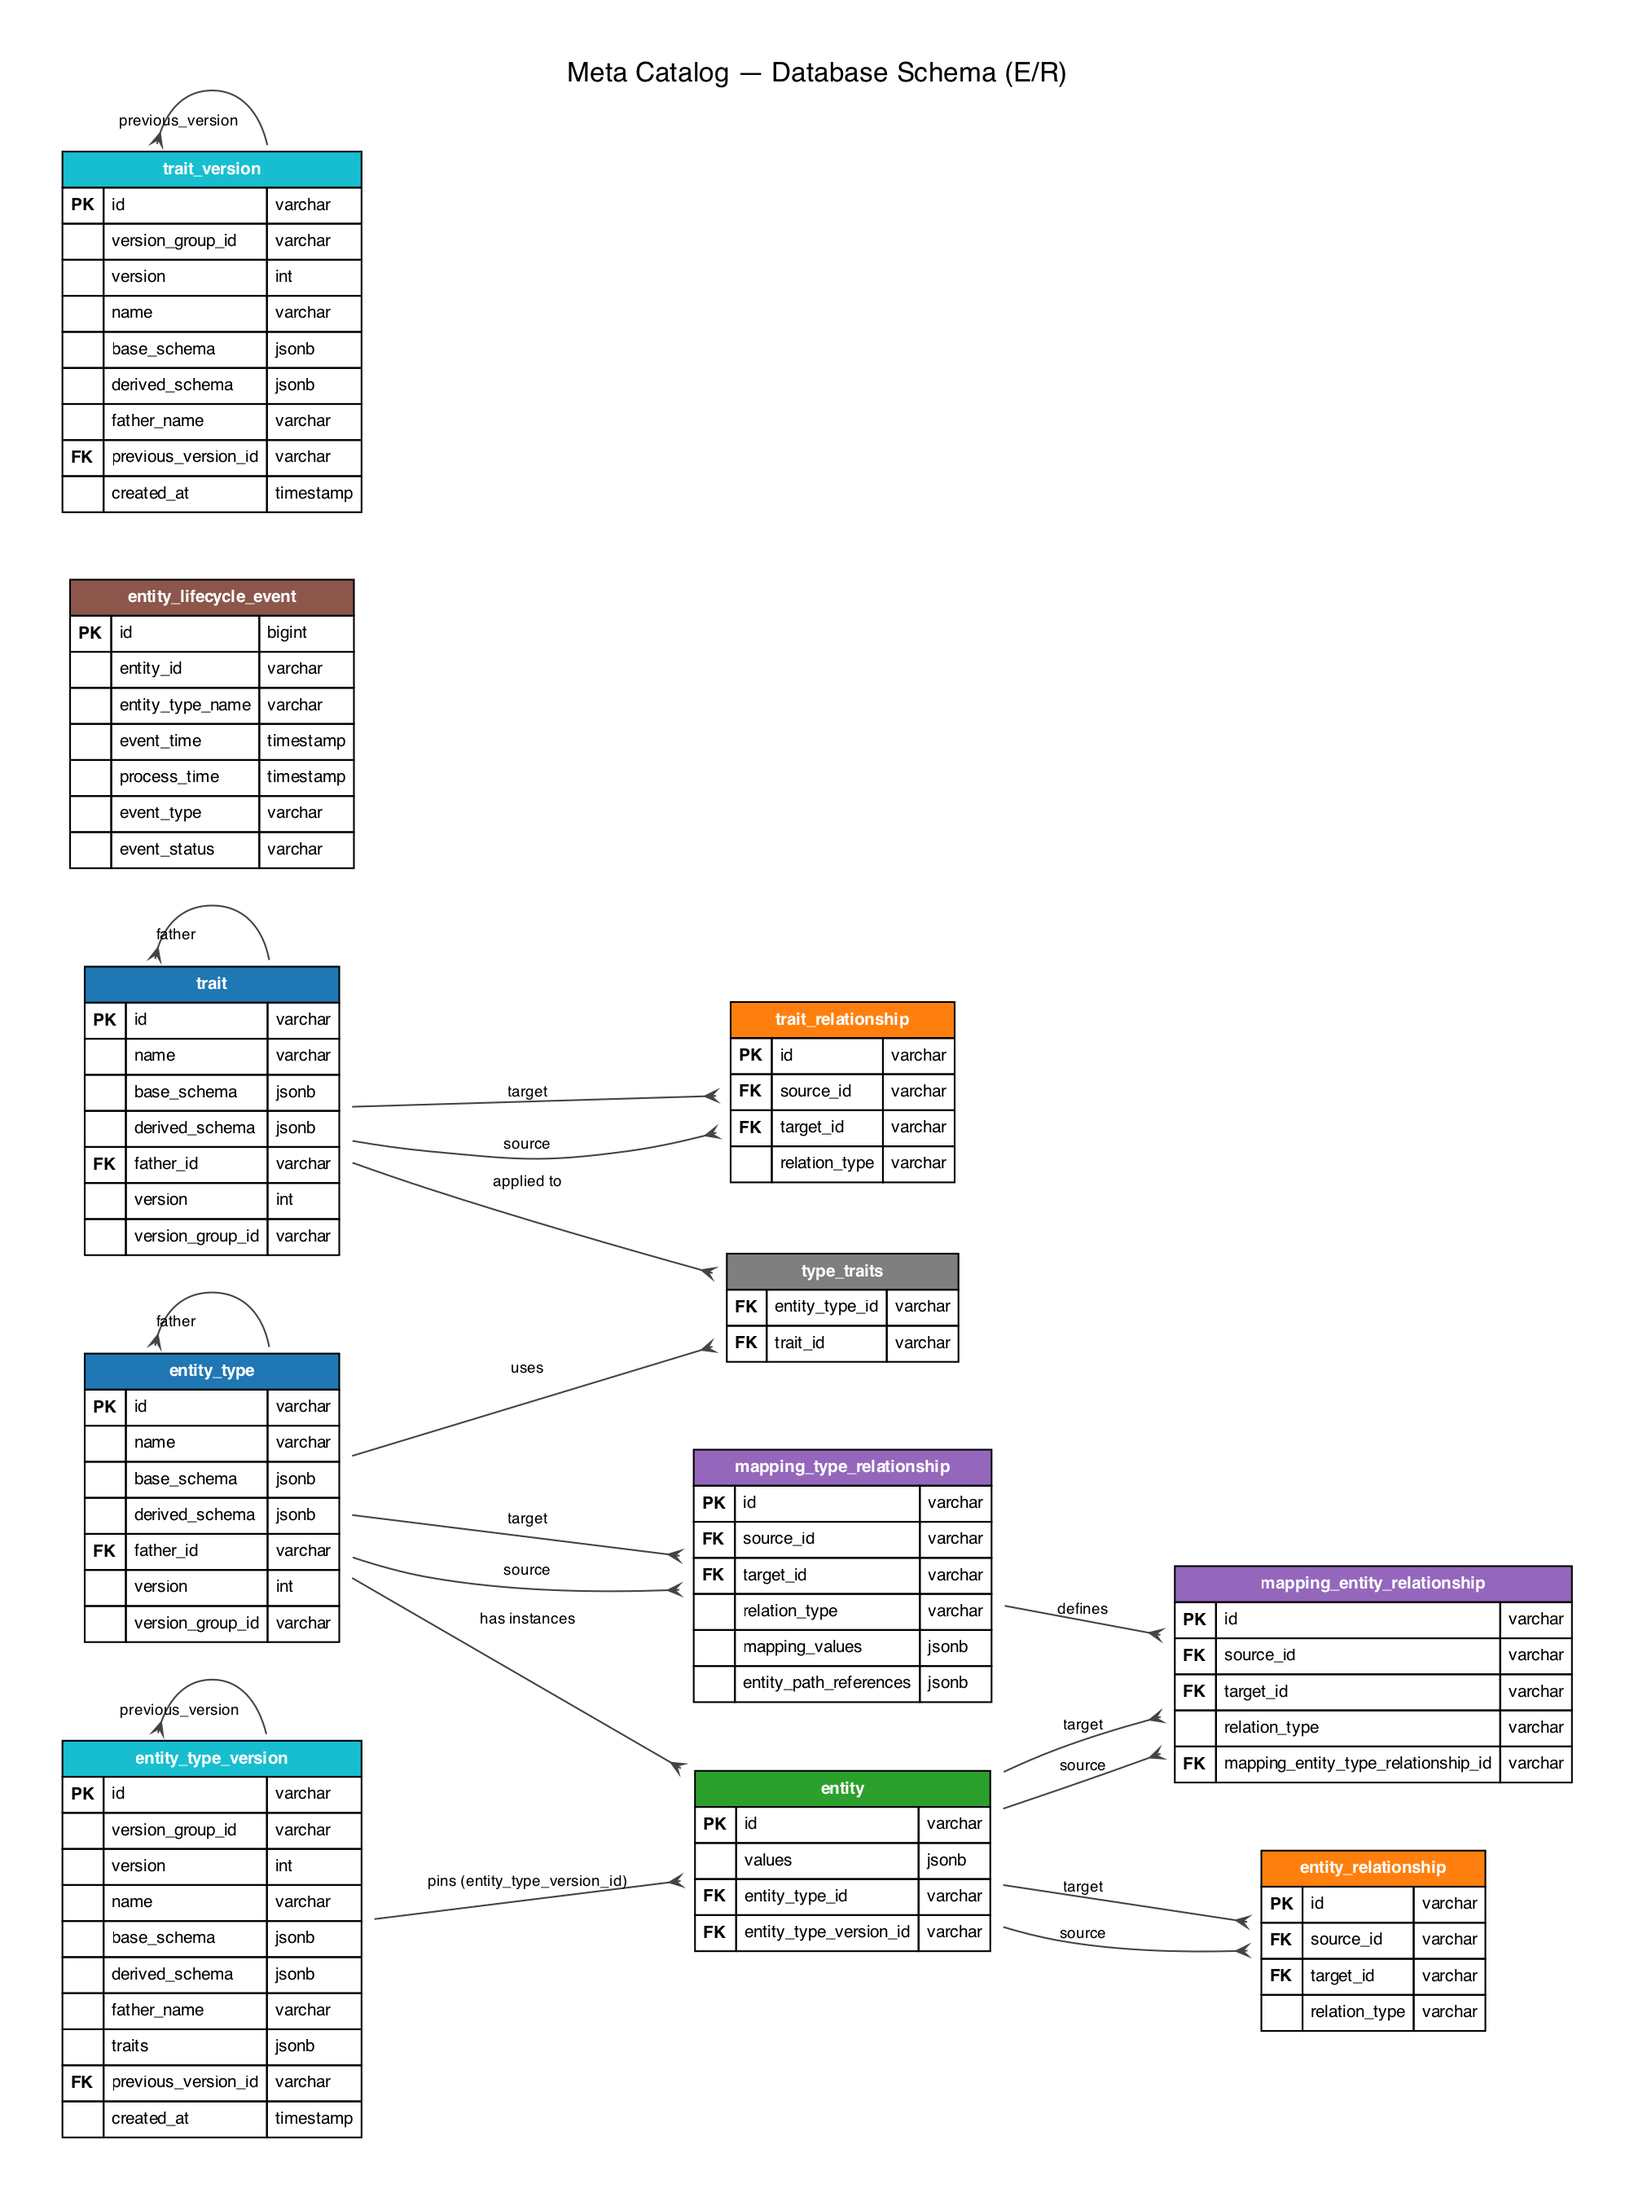
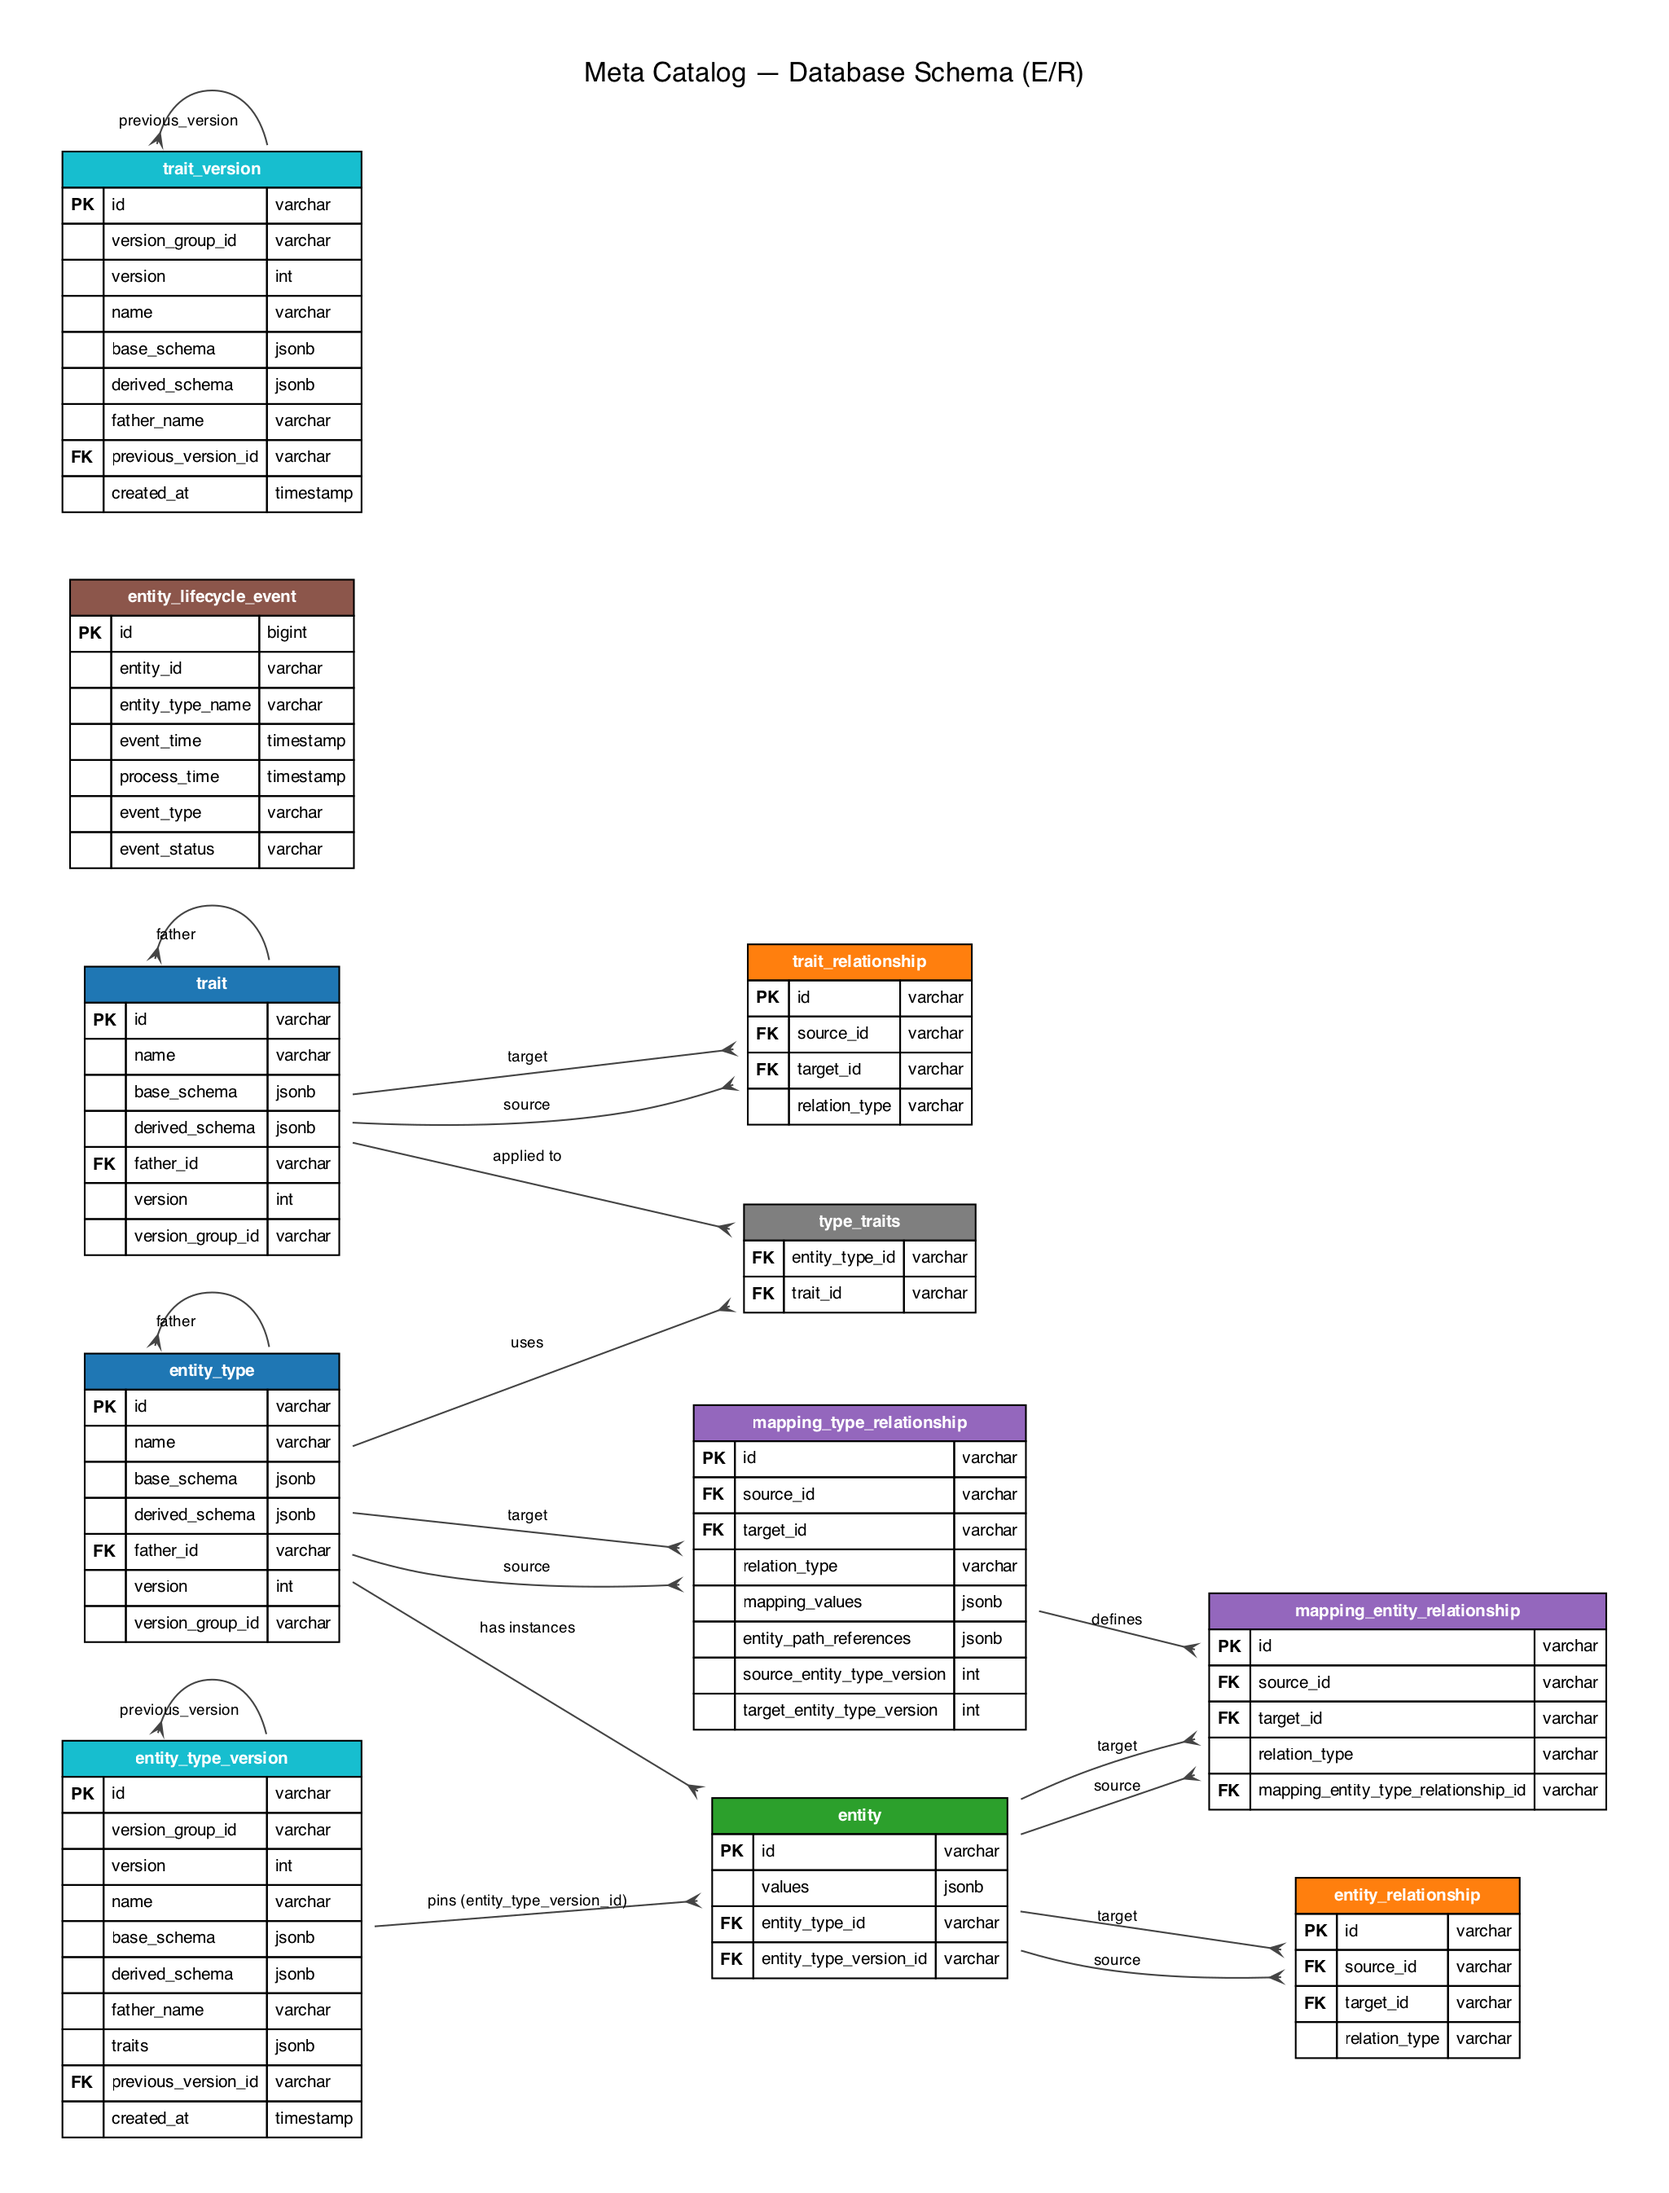
docs: document mapping version pinning, aggregate deletion and provisioning
Update CLAUDE.md and README.md to reflect recent features: mapping
create-or-replace, source/target type version stamps, guarded target-type
versioning, conservative deletion rules, aggregate provisioning and the
server-side provisioningable/root-type lookups. Correct module count and
Spring Boot version, and point at the V1 Flyway baseline instead of migration
V2. Add the source/target entity type version columns to the ER diagram.

diff --git a/README.md b/README.md
@@ -15,12 +15,14 @@ A comprehensive metadata management system built with Spring Boot for managing e
 - **JSON Schema Validation**: Validate entity attributes against schemas
 - **Graph Operations**: Advanced relationship traversal using JGraphT
 - **Ontology Integration**: Semantic web support via an embedded Ontop 5.5.0 virtual knowledge graph, exposed as a SPARQL 1.1 Protocol endpoint and a Yasgui query UI
-- **Aggregates**: Compose entities into trees of parts, authored as a single document against one generated schema that combines every entity type involved (see [Aggregates](#aggregates))
+- **Aggregates**: Compose entities into trees of parts, authored as a single document against one generated schema that combines every entity type involved, and deleted as a whole (see [Aggregates](#aggregates))
+- **Provisioning**: Run a registered task for every `ProvisionableResource` of an aggregate in dependency order, and tear it down in reverse (see [Aggregates](#aggregates))
+- **Referential Safety**: Deletions that would strand an entity, dangle a link or break a mapping's path resolution are refused, with an exact per-link check rather than a type-level one (see [Deleting entities and links](#deleting-entities-and-links))
 - **Bulk Operations**: Efficient bulk loading and updates
 - **Audit Trail**: Entity lifecycle event tracking
 - **REST API**: Comprehensive OpenAPI-documented REST endpoints
 - **Pluggable Authentication**: `none` / HTTP Basic / OAuth2 (JWT) / LDAP, selectable via config (see [Security](#security))
-- **Web UI**: Server-side rendered pages for creating traits, entity types, instances and aggregates, with interactive JSON Schema and schema-driven value builders
+- **Web UI**: Server-side rendered pages for creating traits, entity types, mappings, links, instances and aggregates, with interactive JSON Schema and schema-driven value builders, a catalog graph, and instance search by type and JSONPath
 
 ## Technology Stack
 
@@ -453,10 +455,11 @@ with.
 - On `PUT /metacatalog/v1/entity/{id}`, validation uses the schema of the snapshot the
   entity is pinned to, **not** the live type's schema. Updating an entity never re-pins
   it to a newer version.
-- Mapped entities (created automatically by `MappingService` from a mapping rule) are
-  pinned to the target type's current version at creation time, just like user-created
-  entities. When a mapped entity is regenerated on source update, the new values are
-  validated against the mapped entity's pinned snapshot.
+- Mapped entities (created automatically from a mapping rule) are pinned to the version the
+  **mapping** was stamped with (`targetEntityTypeVersion`), not to whatever is live at the moment
+  they are derived — so versioning the target type does not move them until the mapping itself is
+  replaced (see [Mappings and type versions](#mappings-and-type-versions)). When a mapped entity
+  is regenerated on source update, the new values are validated against that pinned snapshot.
 - `GET /metacatalog/v1/entity/{id}` returns the pinned version id as `entityTypeVersionId`
   on the `Entity` DTO. The field is `required` **and** `readOnly` in the OpenAPI contract:
   always present on read, and never sent by clients on create (the generator emits
@@ -578,6 +581,30 @@ The `mappingValues` and `entityPathReferences` fields are sent as JSON strings (
 parsed server-side); see the `Mapping` schema in the OpenAPI spec. The UI's "New Mapping"
 form provides a structured editor for both fields.
 
+`POST /mapping` is **create-or-replace**: re-posting a mapping for a pair that already has one
+updates the existing relationship in place (same id, values re-validated, type versions
+re-stamped) instead of adding a second. Mapped entities therefore stay attached to their mapping
+and the engine never derives a duplicate instance of the target type. The UI's mapping form
+pre-fills from the existing mapping, so submitting it replaces what is there.
+
+### Mappings and type versions
+
+Each mapping records the source and target type versions it was defined against
+(`sourceEntityTypeVersion` / `targetEntityTypeVersion`, frozen at creation and exposed read-only
+on the `Mapping` DTO; the UI shows them next to the type names). Two consequences:
+
+- **Versioning a mapped target type is guarded.** `POST /entity-type/{name}/versions` re-validates
+  every mapping *targeting* the type against the candidate schema and refuses the version with a
+  `400` if a mapping no longer satisfies it — update or delete the mapping first. Without the
+  check the breakage would surface only asynchronously, as `FAILED` lifecycle events. Only the
+  target side can be checked statically: a mapping's SpEL reads source *values*, not the source
+  schema.
+- **Mapped entities follow their mapping, not the live type.** They are derived, so they are
+  validated against and pinned to the snapshot of the version the *mapping* was stamped with. An
+  untouched mapping keeps them on the old version even after the target type is versioned;
+  replacing the mapping (re-stamped against the live version) moves them forward on their next
+  update.
+
 ### Configuration
 
 ```yaml
@@ -661,16 +688,23 @@ docker compose -f docker-compose.lock-test.yml down -v         # cleanup
 
 An **aggregate** is a tree of entities: a root entity composed of parts, each of which may be
 an aggregate itself. Aggregates are created through `POST /metacatalog/v1/aggregate/yaml`
-(a YAML document), read back with `GET /metacatalog/v1/aggregate/{id}`, and provisioned in
-dependency order by the provisioning procedure in `metacatalog-functions`.
+(a YAML document), read back with `GET /metacatalog/v1/aggregate/{id}` (or
+`GET /metacatalog/v1/aggregate/{id}/yaml` for the same tree as a YAML file), deleted as a whole
+with `DELETE /metacatalog/v1/aggregate/{id}` (see [Deleting entities and links](#deleting-entities-and-links)),
+and provisioned in dependency order by the provisioning procedure in `metacatalog-functions`.
+`GET /metacatalog/v1/aggregate/provisionable-type` lists the entity types whose instances can be
+provisioned — the answer depends on type *and* trait inheritance chains, so it is computed
+server-side rather than derived from the `traits` on the `EntityType` DTO (which lists only the
+directly associated ones).
 
 ### Aggregate root types
 
 Composition is **not** declared between entity types directly — it is declared once between
 *traits*, and an entity type takes part in it by mixing those traits in. This is the same rule
 that governs whether two entity instances may be linked at all. For example, the built-in
-`Aggregate` trait declares `HAS_PART` towards `AggregateElement` (migration `V2`), so any type
-carrying `Aggregate` can contain any type carrying `AggregateElement`.
+`Aggregate` trait declares `HAS_PART` towards `AggregateElement` (seeded by the Flyway baseline
+`V1__initial_schema.sql`), so any type carrying `Aggregate` can contain any type carrying
+`AggregateElement`.
 
 An **aggregate root type** is a type that can start an aggregate: it has a `HAS_PART`
 relationship towards at least one other type, but is never itself a part of another type.
@@ -732,8 +766,35 @@ Notes on the generated schema:
 `/ui/aggregates/new` (**+ New Aggregate** on the dashboard) turns that schema into a form: pick
 an aggregate root type, and the page renders the tree — typed inputs for each entity's values,
 plus an *Add part* button per allowed part type. Parts are added on demand, so a self-composing
-type does not expand forever. A **Raw JSON** tab allows editing the document directly, and
-submitting creates the entire aggregate — nesting and dependencies included — in one call.
+type does not expand forever. A **Raw JSON** tab allows editing the document directly, a
+read-only **YAML** tab (rendered server-side) shows the exact document the aggregate endpoint
+would receive, and submitting creates the entire aggregate — nesting and dependencies included —
+in one call.
+
+Existing aggregates are listed at `/ui/aggregates`, with a per-aggregate view page showing the
+whole tree (values as JSON or YAML). Deleting, provisioning and unprovisioning an aggregate are
+actions on the instances list: a row gets *Delete aggregate* when its entity type is one of the
+`GET /aggregate/root-type` types, and *Provision* / *Unprovision* when it is one of the
+`GET /aggregate/provisionable-type` types. Provisioning from the UI is synchronous — the POST
+does not return until the whole aggregate is done, which is a reason to keep the UI action for
+demo-scale aggregates.
+
+## Deleting entities and links
+
+Deletion is deliberately conservative: the catalog refuses any removal that would leave a
+dangling link, a stranded entity, or a mapping that can no longer derive its targets.
+
+| Call | Rule |
+| --- | --- |
+| `DELETE /entity/{id}` | Refuses any entity that still has links. It is never a way to dismantle an aggregate piecemeal. |
+| `DELETE /aggregate/{id}` | Removes the root, its whole `HAS_PART` tree and everything derived from those members through `MAPPED_TO`, in one transaction. Refused when a member is linked to an entity outside the aggregate, or is itself a mapping target. |
+| `DELETE /entity/link/...` | Refused for a `HAS_PART` / `IS_PART_OF` link whose containing side implements the `Aggregate` trait — containment is what makes a part reachable from its root, so detaching one strands it. Also refused when an existing mapping resolves an entity path reference *through* the link. `DEPENDS_ON` links, and containment between entities that are not aggregates, stay removable. |
+| `DELETE /trait/link/...` | Refused when an existing link between entity instances relies on the trait relationship. A link is only admitted because a trait relationship sanctions it, so removing the last one that does would leave the link with nothing justifying it. |
+
+Both link checks are **exact** rather than type-level: each candidate is re-tested (a mapping's
+path is re-resolved; an entity link is re-checked for legitimacy with the removed trait pair
+excluded), so only a link that actually loses its last justification blocks the removal. In each
+case the fix is the same — remove the instance link, or delete/re-create the mapping, first.
 
 ## Configuration
 

diff --git a/CLAUDE.md b/CLAUDE.md
@@ -10,8 +10,8 @@ validation of entity attributes, graph-based relationship traversal, an asynchro
 engine, and optional ontology-based data access via Ontop.
 
 - **Group / artifact:** `it.davidgreco:metacatalog` — version `0.0.1-SNAPSHOT`
-- **Packaging:** Maven multi-module (`pom` parent + 4 modules)
-- **Java:** 25 · **Spring Boot:** 4.0.1 · **PostgreSQL** (JDBC 42.7.x) · **Maven:** 3.9.9+ (enforced)
+- **Packaging:** Maven multi-module (`pom` parent + 7 modules)
+- **Java:** 25 · **Spring Boot:** 4.1.0 · **PostgreSQL** (JDBC 42.7.x) · **Maven:** 3.9.9+ (enforced)
 - **Persistence:** Spring Data JPA / Hibernate, JSON stored in `jsonb` columns via Hypersistence Utils
 - **Schema migrations:** Flyway (auto-run on startup)
 
@@ -52,7 +52,7 @@ Located in `metacatalog-core/.../entity`:
 - **`AdvisoryLockManager`** — PostgreSQL advisory locks used to serialize scheduled work across
   application instances.
 
-### Built-in traits (seeded by migration V2)
+### Built-in traits (seeded by the Flyway baseline `V1__initial_schema.sql`)
 
 `Aggregate`, `AggregateElement`, `Provisionable`, `ProvisionableResource`. These underpin the
 aggregate model (`AggregateService`) and the provisioning procedure.
